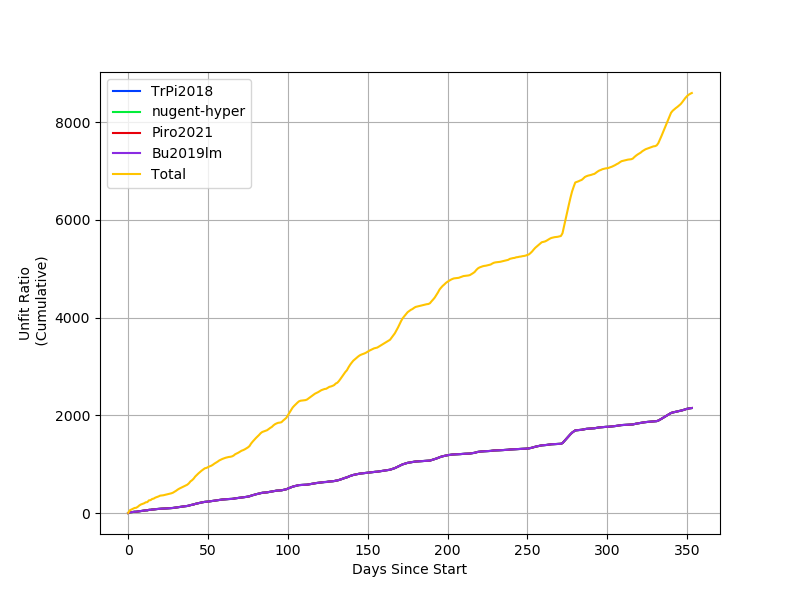
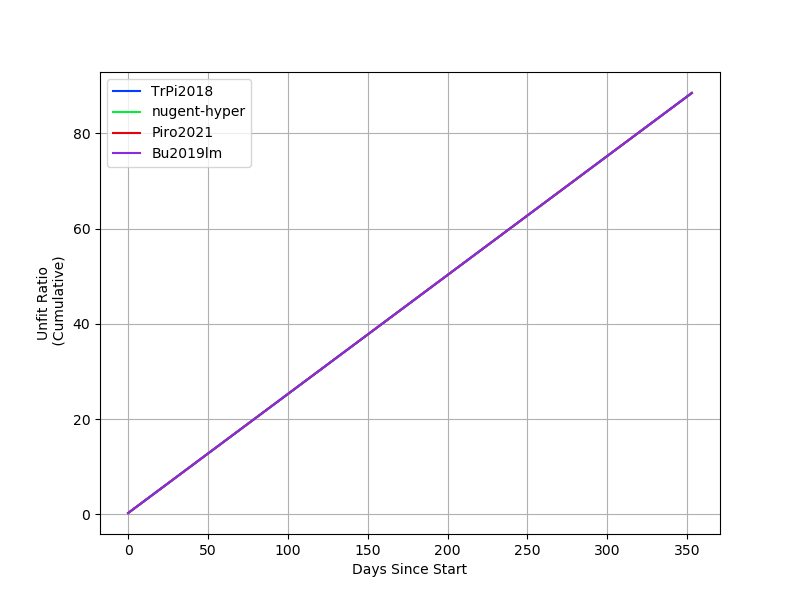
Altered cumFracDailyUnfit
neither work still

diff --git a/stats.py b/stats.py
@@ -600,29 +600,34 @@ def plotUnfit(df, models= args.models, save=True): ## assumes use of dataframe
     ax.legend()
     plt.savefig(plotDir("fracDailyUnfitRolling")) if save else None
 
-    ## this seems to be busted in some way
+    '''
+    ## this seems to be busted in some way 
+    ## (actually, it might not be the most useful plot)
     ## plot cumulative fraction of candidates that were not fit for each day 
     fig, ax = plt.subplots(figsize=(8,6), facecolor='white')
     for key, value in allfit.items():
-        ax.plot(dayCount, np.cumsum(value), label=key)
+        fracValue = np.cumsum(value)/np.cumsum(allfit['Total'])
+        ax.plot(dayCount, np.cumsum(fracValue), label=key) if key != 'Total' else None
     ax.set_xlabel("Days Since Start")
     ax.set_ylabel('Unfit Ratio\n (Cumulative)')
     #ax.set_title('Cumulative Fraction of Unfit Candidates to Total') ## should these have titles?
     ax.legend()
     plt.savefig(plotDir("cumFracDailyUnfit")) if save else None
     plt.clf()
-
+    '''
     ## plot rolling average of cumulative fraction of candidates that were not fit for each day
     fig, ax = plt.subplots(figsize=(8,6), facecolor='white')
     for key, value in allfit.items():
-        ax.plot(dayCount, pd.Series(np.cumsum(value)).rolling(7).mean(), label=key)
+        fracValue = pd.Series(np.cumsum(value)).rolling(7).mean()/pd.Series(np.cumsum(allfit['Total'])).rolling(7).mean()
+        ax.plot(dayCount, fracValue, label=key) if key != 'Total' else None
     ax.set_xlabel("Days Since Start")
     ax.set_ylabel('Ratio')
     #ax.set_title('Cumulative Fraction of Unfit Candidates to Total \n (One Week Rolling Average)') ## should these have titles?
     ax.legend()
     plt.savefig(plotDir("cumFracDailyUnfitRolling")) if save else None
     plt.clf()
-
+    
+    
     ## maybe a simple bar chart of unfit candidates? (could be useful for a quick glance)
     ## could also add a stacked bar chart of fit and unfit candidates
 
